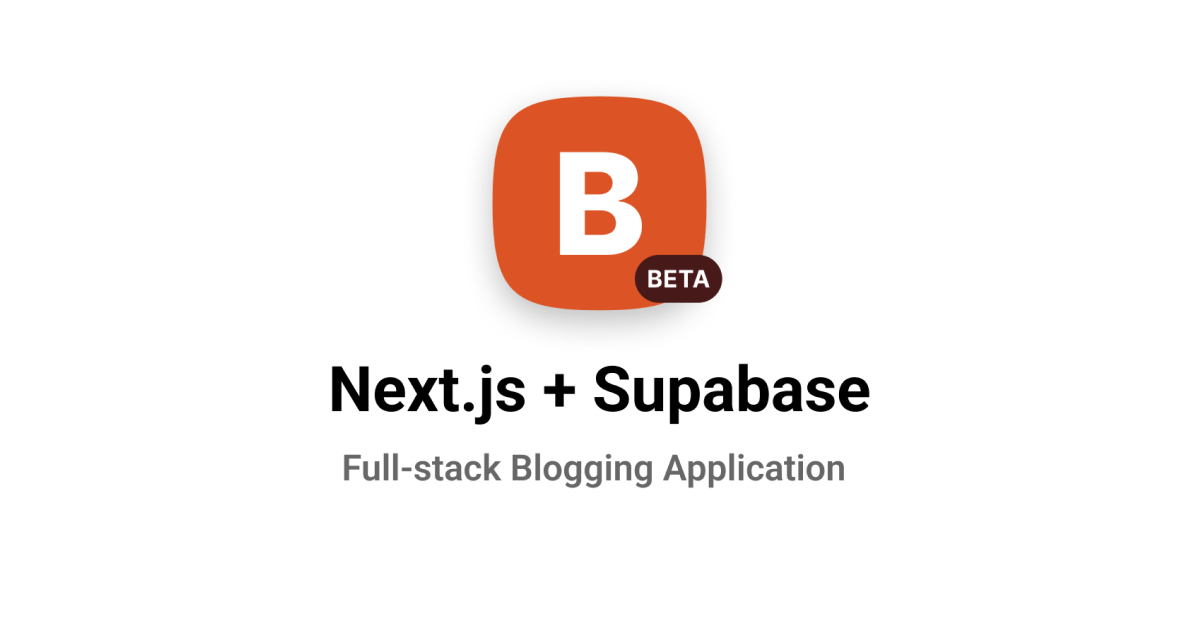
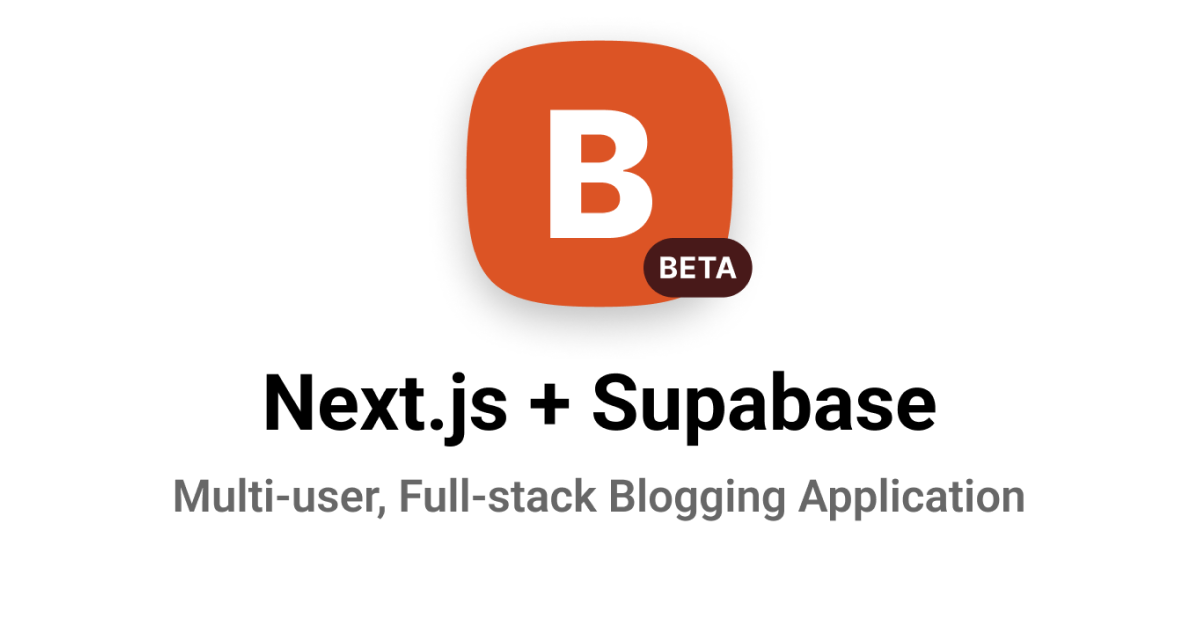
Updated: Readme file and og images

Changed region(s): [[0.1233, 0.573, 0.8633, 0.8444], [0.37, 0.0603, 0.6475, 0.5127]]

diff --git a/config/meta.tsx b/config/meta.tsx
@@ -1,19 +1,20 @@
 import { MetaAttributes } from "types";
 
 export const metaData: MetaAttributes = {
-  title: "Blog app",
-  subTitle: "Fullstack blog app built with Next.js and Supabase",
+  title: "Multi-user, full-stack blogging application",
+  subTitle:
+    "Multi-user, full-stack blogging app built with Next.js and Supabase",
   absoluteTitle: "Next.js | Blog app",
-  ogTitle: "Next.js | Blog app",
+  ogTitle: "Next.js | Supabase | Blog app",
   author: {
     name: "Tim",
     twitterUrl: "https://twitter.com/timtbdev",
     twitterAddress: "@timtbdev",
   },
   description:
-    "Fullstack, Blog, app, Fullstack Blog, Next.js, Supabase, Supabase Database, Supabase Auth, Supabase Storage, TailwindCSS, TypeScript, Shadcn-ui, Radix-ui, HeadlessUi, NodeMailer, ConvertKit, Vercel OG, React-Hook-Form, React-Drop-Zone, Zod, HeroIcons, Lucide, Novel, Vaul",
+    "Multi-user, Fullstack, Blogging, applicaiton, blog, app, Next.js, Supabase, Supabase Database, Supabase Auth, Supabase Storage, TailwindCSS, TypeScript, Shadcn-ui, Radix-ui, HeadlessUi, NodeMailer, ConvertKit, Vercel OG, React-Hook-Form, React-Drop-Zone, Zod, HeroIcons, Lucide, Novel, Vaul, Uppy",
   keywords: [
-    "Fullstack, Blog, app, Fullstack Blog, Next.js, Supabase, Supabase Database, Supabase Auth, Supabase Storage, TailwindCSS, TypeScript, Shadcn-ui, Radix-ui, HeadlessUi, NodeMailer, ConvertKit, Vercel OG, React-Hook-Form, React-Drop-Zone, Zod, HeroIcons, Lucide, Novel, Vaul",
+    "Multi-user, Fullstack, Blogging, applicaiton, blog, app, Next.js, Supabase, Supabase Database, Supabase Auth, Supabase Storage, TailwindCSS, TypeScript, Shadcn-ui, Radix-ui, HeadlessUi, NodeMailer, ConvertKit, Vercel OG, React-Hook-Form, React-Drop-Zone, Zod, HeroIcons, Lucide, Novel, Vaul, Uppy",
   ],
   tags: ["Next.js", "Supabase", "TailwindCSS"],
 };

diff --git a/README.md b/README.md
@@ -1,11 +1,11 @@
 <p align="center" style="margin-top: 120px">
-  <img width="1040" alt="Cover" src="https://github.com/timtbdev/Next.js-Blog-App/assets/25026241/ad4380ff-53c9-4c83-bdbc-f277b5dbfd86">
+  <img width="1040" alt="Cover" src="https://github.com/timtbdev/Next.js-Blog-App/assets/25026241/f4d08597-8f6e-4a2e-8807-0490eb7859be">
 
-  <h1 align="center">Full-stack Blogging Applicaition</h1>
+  <h1 align="center">Multi-User, Full-stack Blogging Applicaition</h1>
 
 <p align="center">
   The <em>all-in-one</em> starter kit <br/>
-  for building full-stack blogging applications.
+  for building multi-user, full-stack blogging applications.
 </p>
 
 <p align="center">
@@ -18,7 +18,7 @@
 
 ## Introduction
 
-The [Blogging application](https://ub.cafe) is a full-stack Next.js app with Supabase support. Built with [Next.js App Router](https://nextjs.org/docs/app), [Supabase Auth](https://supabase.com/docs/guides/auth) and [Supabase Database](https://supabase.com/docs/guides/database), [Supabase Storage](https://supabase.com/docs/guides/storage).
+The [Blogging application](https://ub.cafe) is a multi-user, full-stack Next.js app with Supabase support. Built with [Next.js App Router](https://nextjs.org/docs/app), [Supabase Auth](https://supabase.com/docs/guides/auth) and [Supabase Database](https://supabase.com/docs/guides/database), [Supabase Storage](https://supabase.com/docs/guides/storage).
 
 ## 💻 Frontend
 
